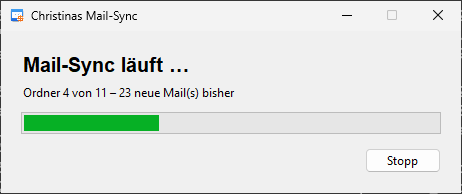
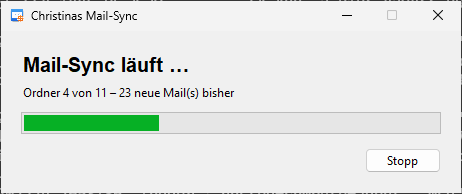
Neue Screenshots: Einstellungen mit Code, gleich hoch nebeneinander
macOS-Aufnahmen ohne Fensterschatten, damit beide Fenster gleich groß wirken.

Claude-Session: https://claude.ai/code/session_01Q2uAAVBLHwbpZqM5VHevxB

diff --git a/scripts/screenshots.py b/scripts/screenshots.py
@@ -44,7 +44,7 @@ def capture(win, path):
         ids = [d["kCGWindowNumber"] for d in windows
                if d["kCGWindowOwnerPID"] == os.getpid() and d.get("kCGWindowIsOnscreen")
                and abs(d["kCGWindowBounds"]["X"] - x) <= 2 and abs(d["kCGWindowBounds"]["Width"] - w) <= 2]
-        subprocess.run(["screencapture", "-x", "-l", str(ids[0]), path], check=True)
+        subprocess.run(["screencapture", "-x", "-o", "-l", str(ids[0]), path], check=True)
     else:
         import ctypes
         from ctypes import wintypes

diff --git a/README.md b/README.md
@@ -8,8 +8,8 @@ Für Windows und Mac, ohne Installation von Zusatzprogrammen.
 - **Ordner bleiben erhalten**, ebenso Datum und Gelesen-Markierung.
 
 <p align="center">
-  <img src="docs/screenshots/macos-2-sync.png" height="150" alt="Sync läuft unter macOS">
-  <img src="docs/screenshots/windows-3-fertig.png" height="150" alt="Sync fertig unter Windows">
+  <img src="docs/screenshots/macos-2-sync.png" height="180" alt="Sync läuft unter macOS">
+  <img src="docs/screenshots/windows-3-fertig.png" height="180" alt="Sync fertig unter Windows">
 </p>
 <p align="center"><em>Ein Doppelklick genügt – links macOS während des Syncs, rechts Windows danach</em></p>
 
@@ -45,8 +45,8 @@ Die App ist nicht bei Apple oder Microsoft registriert. Deshalb warnt der Comput
 3. Auf **Prüfen und speichern** klicken.
 
 <p align="center">
-  <img src="docs/screenshots/macos-1-einstellungen.png" height="420" alt="Einstellungen unter macOS">
-  <img src="docs/screenshots/windows-1-einstellungen.png" height="420" alt="Einstellungen unter Windows">
+  <img src="docs/screenshots/macos-1-einstellungen.png" height="460" alt="Einstellungen unter macOS">
+  <img src="docs/screenshots/windows-1-einstellungen.png" height="460" alt="Einstellungen unter Windows">
 </p>
 <p align="center"><em>Einstellungen mit eingefügtem Code – links macOS, rechts Windows</em></p>
 
